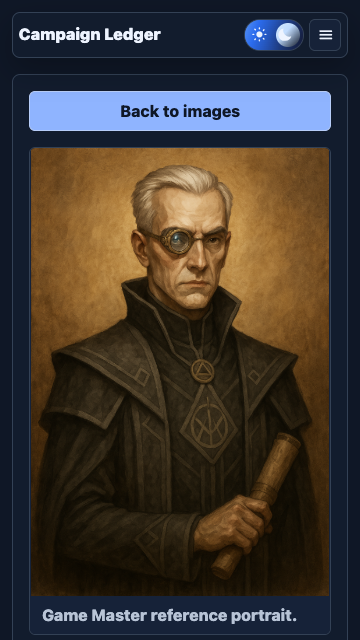
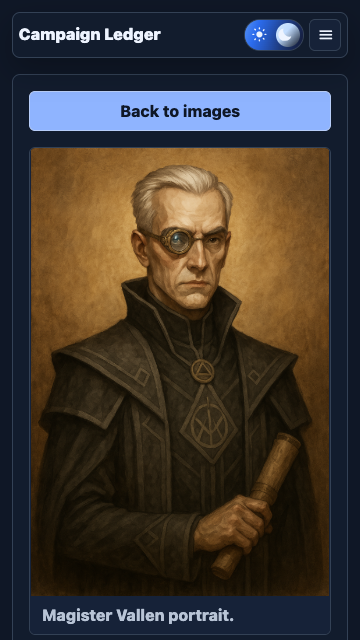
Make Vallen portrait player visible

Changed region(s): [[0.1222, 0.9375, 0.825, 1.0]]

diff --git a/src/app.test.tsx b/src/app.test.tsx
@@ -1446,9 +1446,10 @@ describe("createApp", () => {
       headers: { cookie: gmCookie },
     });
     const gmDetailHtml = await gmDetail.text();
-    const playerPrivateDetail = await app.request("/campaigns/rovnost-shadows/images/asset_magister_vallen", {
+    const playerDetail = await app.request("/campaigns/rovnost-shadows/images/asset_magister_vallen", {
       headers: { cookie: playerCookie },
     });
+    const playerDetailHtml = await playerDetail.text();
     const outsiderLibrary = await app.request("/campaigns/rovnost-shadows/images", {
       headers: { cookie: outsiderCookie },
     });
@@ -1460,12 +1461,14 @@ describe("createApp", () => {
     expect(gmHtml).toContain("1 uses");
     expect(playerLibrary.status).toBe(200);
     expect(playerHtml).toContain("Skywright sigil");
-    expect(playerHtml).not.toContain("Magister Vallen portrait");
+    expect(playerHtml).toContain("Magister Vallen portrait");
     expect(gmDetail.status).toBe(200);
     expect(gmDetailHtml).toContain("Storage key");
     expect(gmDetailHtml).toContain("Magister Vallen");
     expect(gmDetailHtml).toContain('href="/campaigns/rovnost-shadows/npcs/magister-vallen"');
-    expect(playerPrivateDetail.status).toBe(404);
+    expect(playerDetail.status).toBe(200);
+    expect(playerDetailHtml).toContain("Magister Vallen portrait.");
+    expect(playerDetailHtml).not.toContain("Storage key");
     expect(outsiderLibrary.status).toBe(403);
   });
 

diff --git a/src/db/seed.ts b/src/db/seed.ts
@@ -755,8 +755,8 @@ const campaignImageAssets: CampaignImageAssetSeed[] = [
     1024,
     1536,
     "Magister Vallen portrait",
-    "Game Master reference portrait.",
-    "game_master",
+    "Magister Vallen portrait.",
+    "player",
   ],
   [
     "asset_rovnost_factions",

diff --git a/src/db/sqlite.test.ts b/src/db/sqlite.test.ts
@@ -1088,6 +1088,7 @@ describe("SQLite repositories", () => {
       "campaigns/rovnost-shadows/astril-map.png",
       "campaigns/rovnost-shadows/cover.png",
       "campaigns/rovnost-shadows/faction-sigils.png",
+      "campaigns/rovnost-shadows/magister-vallen.png",
       "campaigns/rovnost-shadows/skywright-sigil.png",
     ]);
     expect(
@@ -1307,7 +1308,7 @@ describe("SQLite repositories", () => {
         campaignId,
         id: privateNpc.id,
         name: "Dockside Contact",
-        portraitImageAssetId: null,
+        portraitImageAssetId: "asset_magister_vallen",
         publicSummary: "A quiet contact in the harbour district.",
         publicWikiPageId: "wiki_rovnost_factions",
         slug: "dockside-contact",